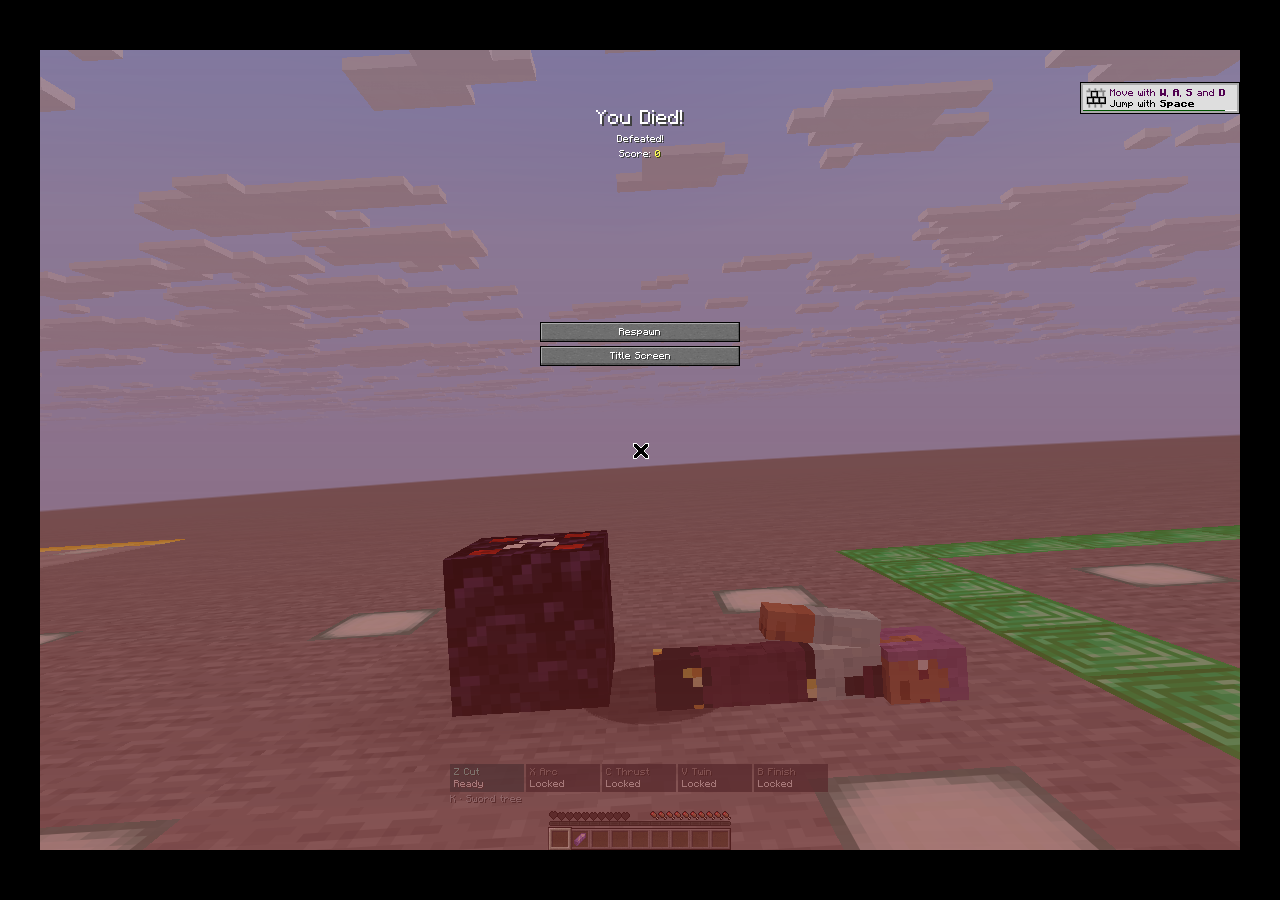
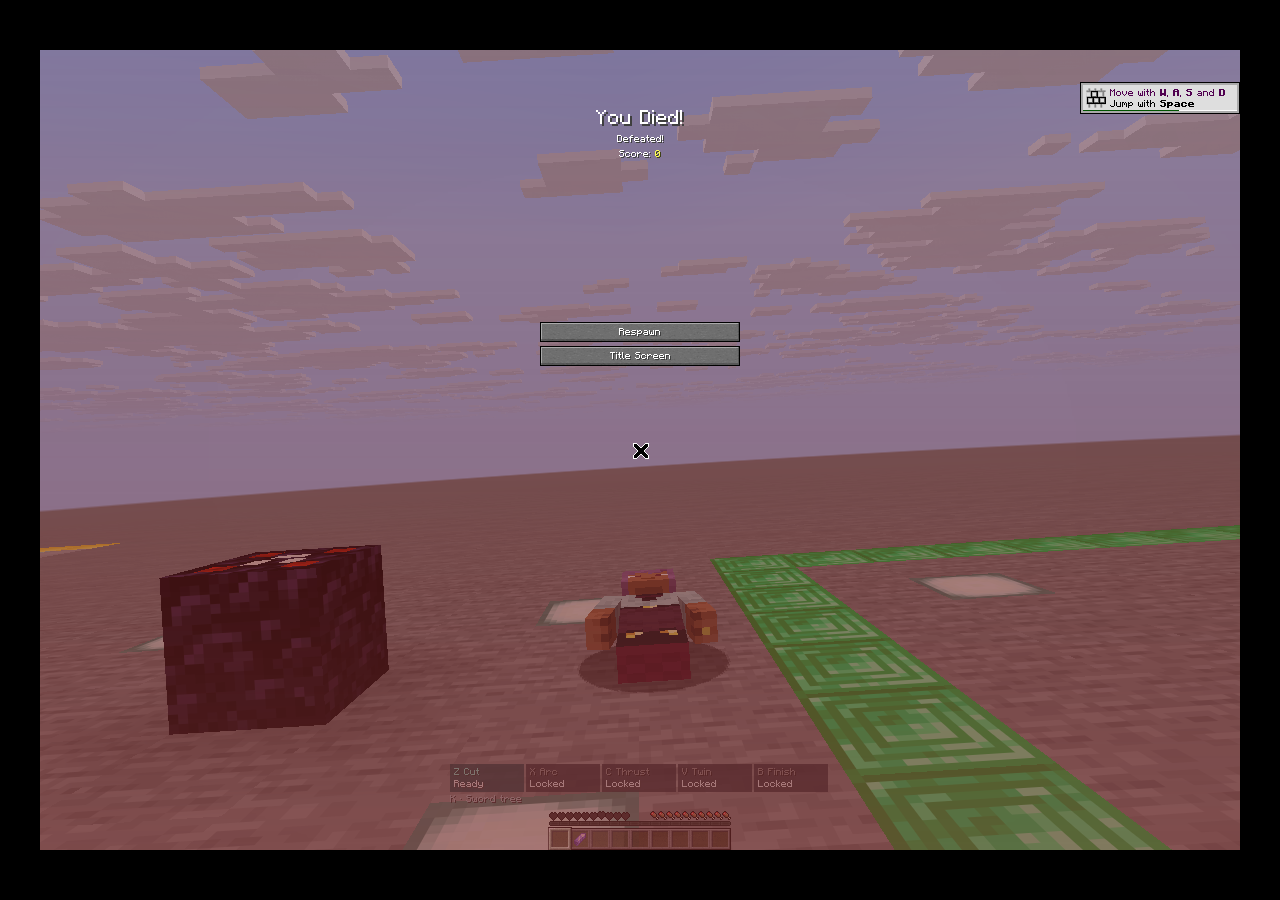
fix(animation): make corpses fall backward and rest face-up

diff --git a/client-mod/src/main/java/dev/ancientrpg/client/mixin/CorpseFallMixin.java b/client-mod/src/main/java/dev/ancientrpg/client/mixin/CorpseFallMixin.java
@@ -1,0 +1,24 @@
+package dev.ancientrpg.client.mixin;
+
+import com.mojang.blaze3d.vertex.PoseStack;
+import com.mojang.math.Axis;
+import dev.ancientrpg.client.CorpseClient;
+import net.minecraft.client.renderer.entity.LivingEntityRenderer;
+import net.minecraft.client.renderer.entity.state.LivingEntityRenderState;
+import org.spongepowered.asm.mixin.Mixin;
+import org.spongepowered.asm.mixin.injection.At;
+import org.spongepowered.asm.mixin.injection.Redirect;
+
+@Mixin(LivingEntityRenderer.class)
+public abstract class CorpseFallMixin {
+  @Redirect(
+      method = "setupRotations",
+      at = @At(value = "FIELD", target = "Lcom/mojang/math/Axis;ZP:Lcom/mojang/math/Axis;"))
+  private Axis ancientrpg$backwardFall(
+      LivingEntityRenderState state, PoseStack poses, float bodyYaw, float scale) {
+    return state instanceof net.minecraft.client.renderer.entity.state.AvatarRenderState avatar
+            && CorpseClient.isBody(avatar.id)
+        ? Axis.XP
+        : Axis.ZP;
+  }
+}

diff --git a/client-mod/src/main/java/dev/ancientrpg/client/CorpseClient.java b/client-mod/src/main/java/dev/ancientrpg/client/CorpseClient.java
@@ -231,7 +231,11 @@ public final class CorpseClient {
   }
 
   public static boolean isBody(Entity entity) {
-    return INSTANCE.bodies.containsKey(entity.getId());
+    return isBody(entity.getId());
+  }
+
+  public static boolean isBody(int entityId) {
+    return INSTANCE.bodies.containsKey(entityId);
   }
 
   public static boolean hideOriginal(Entity entity) {
@@ -280,7 +284,7 @@ public final class CorpseClient {
     var state = dispatcher.getPlayerRenderer(fake).createRenderState(fake, partial);
     double p = visual.progress(), smooth = p * p * (3 - 2 * p);
     state.x = body.x();
-    state.y = body.y() + .08;
+    state.y = body.y() + .08 + .18 * smooth;
     state.z = body.z();
     state.bodyRot = body.yaw() + (float) (180 * smooth);
     state.deathTime = (float) (1 + 12.5 * smooth * smooth);

diff --git a/docs/death-loot-smoke.md b/docs/death-loot-smoke.md
@@ -49,3 +49,11 @@ passing builds does not mark them passed.
 Visual evidence: [separate safe/risky stacks](images/death-risk-stacks.png),
 [resting body](images/death-body.png), [loot container](images/death-loot.png),
 [confirmed transfer](images/death-loot-transfer.png), [town merge](images/death-town.png).
+
+## Face-up pose adjustment
+
+At the user's request, the corpse now falls backward and rests on its back.
+The packaged Linux client smoke check verified the face-up resting body and no
+renderer/mixin exception. The existing 1.2-second timing and turn are retained;
+a small vertical adjustment keeps the head above the floor. The client build,
+34 tests, formatting and prepared mods passed.
